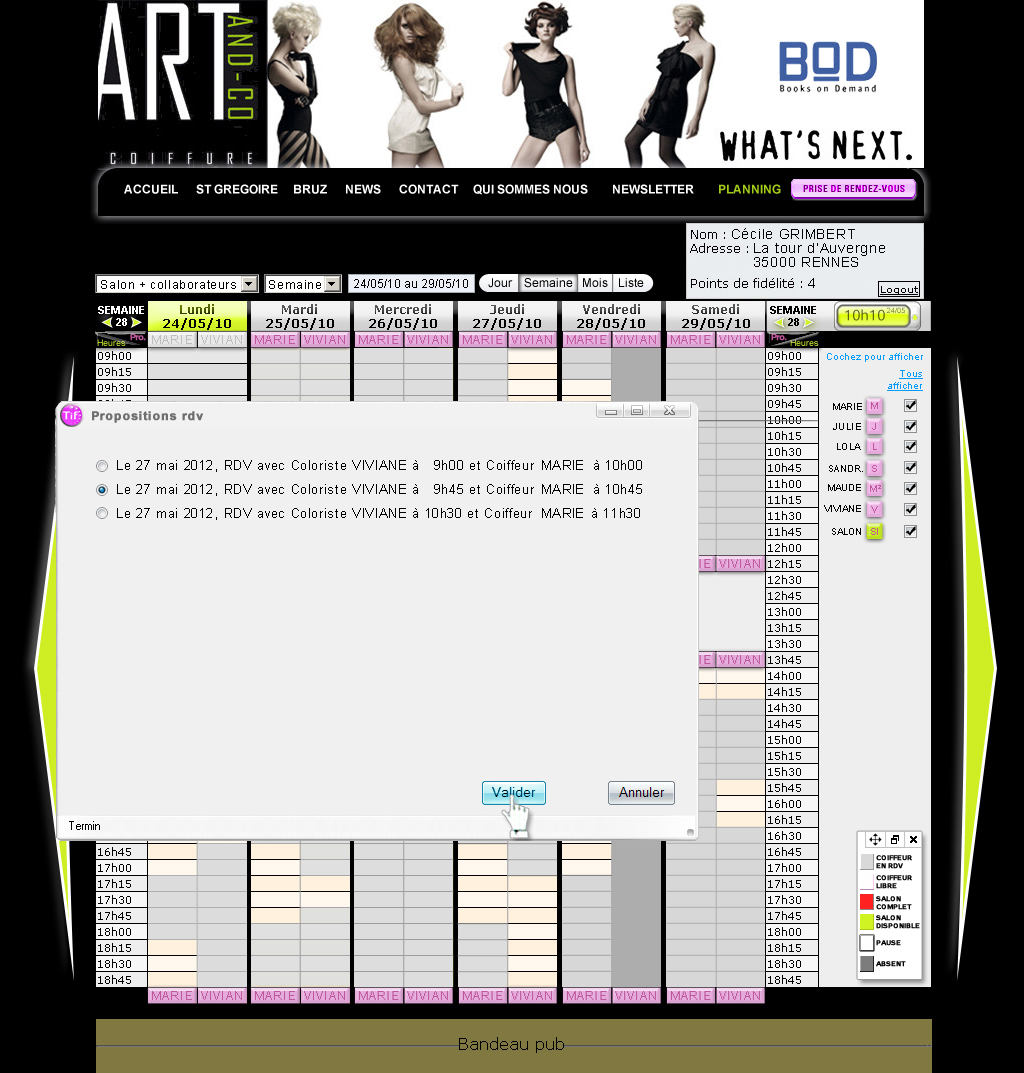
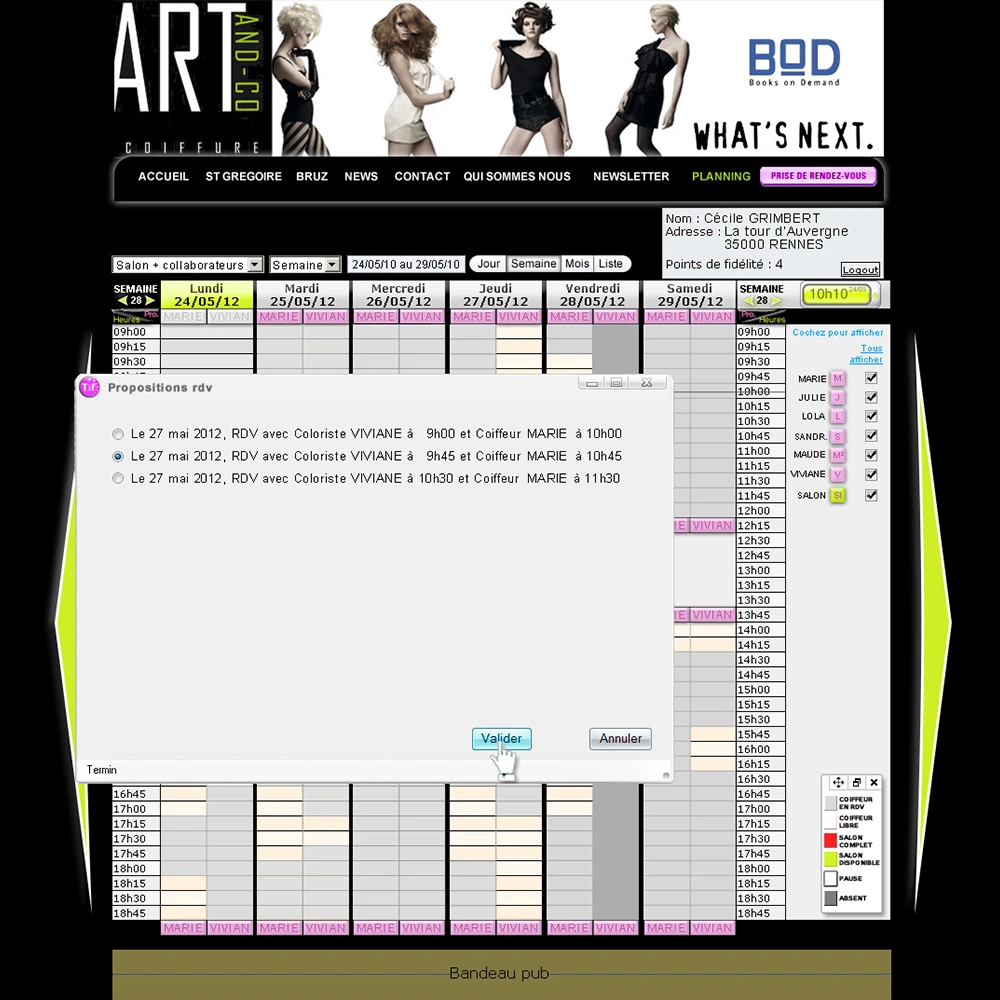
Update Responsive Carrousel

Changed region(s): [[0.0, 0.0, 0.992, 1.0], [0.434, 0.775, 0.558, 0.992], [0.465, 0.713, 0.527, 0.744]]

diff --git a/src/app/pages/portfolio/projects/cognitif/cognitifProject.tsx b/src/app/pages/portfolio/projects/cognitif/cognitifProject.tsx
@@ -22,7 +22,7 @@ const CognitifProject = () => {
       description: "Gestion avancée des horaires pour optimiser les prises de rendez-vous des salons de coiffure." 
     },
     { 
-      url: "/img/cognitif/prise-de-rdv-planning.png", 
+      url: "/img/cognitif/prise-de-rdv-planning.webp", 
       alt: "Dashboard Administrateur", 
       description: "Un popup pour la prise de rendez-vous et un aperçu du planning des réservations avec une vue détaillée des créneaux disponibles." 
     },
@@ -32,7 +32,7 @@ const CognitifProject = () => {
       description: "Suggestions automatiques de rendez-vous en fonction des disponibilités du salon." 
     },
     { 
-      url: "/img/cognitif/stats-ca-dashboard.png", 
+      url: "/img/cognitif/stats-ca-dashboard.webp", 
       alt: "Dashboard Administrateur", 
       description: "Tableau de bord affichant les statistiques de chiffre d'affaires et l'analyse des performances." 
     },
@@ -50,7 +50,7 @@ const CognitifProject = () => {
             navigation
             pagination={{ clickable: true }}
             autoplay={{ delay: 8000, disableOnInteraction: false }}
-            className="rounded-3xl pr-0 2xl:!pr-20 2xl:!pl-8"
+            className="rounded-3xl pr-0 2xl:!pr-20 2xl:!pl-8 h-[700px] xxs:h-[800px] xs:h-[950px] sm:h-[950px] md:h-[800px] lg:h-[850px] xl:h-[850px] 2xl:h-[900px] 3xl:h-[1150px] 4xl:h-[1150px]"
           >
             {images.map((img, index) => (
               <SwiperSlide key={index}>
@@ -66,7 +66,7 @@ const CognitifProject = () => {
                   linkLabel=""
                   imageWidth={1000}
                   imageHeight={1000}
-                  imageClassName="w-[230px]
+                  imageClassName="w-[230px] md:w-[65%] lg:w-[60%] 2xl:w-[45%]
                                   mx-auto
                                   pl-0 2xl:pl-8
                                   mb-0 sm:mb-4 lg:mb-16 3xl:mb-24 4xl:mb-48"

diff --git a/tailwind.config.ts b/tailwind.config.ts
@@ -8,16 +8,20 @@ export default {
     "./src/app/**/*.{js,ts,jsx,tsx,mdx}",
   ],
   theme: {
+    screens: {
+      'xxs': '320px',  // Très petits écrans (smartphones anciens)
+      'xs': '480px',   // Mobiles standards
+      'sm': '640px',   // Breakpoint par défaut de Tailwind
+      'md': '768px',   
+      'lg': '1024px',  
+      'xl': '1280px',  
+      '2xl': '1536px', 
+      '3xl': '1920px', // Écrans larges
+      '4xl': '2560px', // Très grands écrans
+    },
     extend: {
-      screens: {        
-        '3xl': '1920px',
-        '4xl': '2560px',
-      },
       colors: {
-        navBackground: "#ccc", 
-        boxShadow: {
-          'custom-shadow': '0 4px 6px rgba(0, 0, 0, 0.5)',
-        },
+        navBackground: "#ccc",
         navLinkInactive: "#ccc",
         navLinkHover: "#fff000",
         LinkInactive: "#4d94ff",
@@ -25,8 +29,11 @@ export default {
         titlePrimary: "#ffffff",
         titleAccent: "#ff5733",
         buttonColorBkgd: "#4d94ff",
-        colorChart:"#fff000",
-        blueNight: '#0f202e',
+        colorChart: "#fff000",
+        blueNight: "#0f202e",
+      },
+      boxShadow: {
+        'custom-shadow': '0 4px 6px rgba(0, 0, 0, 0.5)',
       },
       fontFamily: {
         orbitron: ['var(--font-orbitron)', 'sans-serif'],
@@ -35,7 +42,6 @@ export default {
         clash: ['var(--font-ClashDisplay-Regular)', 'sans-serif'],
         roboto: ['var(--font-roboto)', 'sans-serif'],
       },
-      fontSize: {},
       textShadow: {
         default: "2px 2px 4px rgba(0, 0, 0, 0.5)",
         strong: "4px 4px 6px rgba(0, 0, 0, 0.7)",

diff --git a/src/app/styles/globals.css b/src/app/styles/globals.css
@@ -182,23 +182,40 @@ a {
 }
 
 /* Carousel */
-.swiper {
+/*.swiper {
   overflow: visible !important;
 }
 
 .swiper-pagination {
-  bottom: -50px !important; /* Descend les bullets */
+  bottom: -50px !important; 
 }
 
-/* Responsive: ajuster l'overflow et la position des bullets sur les grands écrans */
+@media (min-width: 640px) { 
+  .swiper {
+    overflow: visible !important;
+  }
+  .swiper-pagination {
+    bottom: -40px !important;
+  }
+}
+
+@media (min-width: 768px) { 
+  .swiper {
+    overflow: visible !important;
+  }
+  .swiper-pagination {
+    bottom: -40px !important;
+  }
+}
+
 @media (min-width: 1280px) { 
   .swiper {
     overflow: hidden !important;
   }
   .swiper-pagination {
-    bottom: 0px !important;
+    bottom: 60px !important;
   }
-}
+}*/
 
 /* Style des points inactifs */
 .swiper-pagination-bullet {

diff --git a/src/app/pages/portfolio/projects/lic/licProject.tsx b/src/app/pages/portfolio/projects/lic/licProject.tsx
@@ -17,7 +17,7 @@ const LicProject = () => {
         linkLabel=""
         imageWidth={187}
         imageHeight={400}
-        imageClassName="w-[170px] sm:w-[60%] md:w-[70%] lg:w-[50%] xl:w-[20%] 
+        imageClassName="w-[160px] sm:w-[60%] md:w-[70%] lg:w-[50%] xl:w-[20%] 
                         mx-auto
                         mb-16 sm:mb-4 lg:mb-16 3xl:mb-0 4xl:mb-20"
         contentProjectClassName=" xl:mr-[50px] 3xl:mr-[200px] 4xl:mr-[550px]
